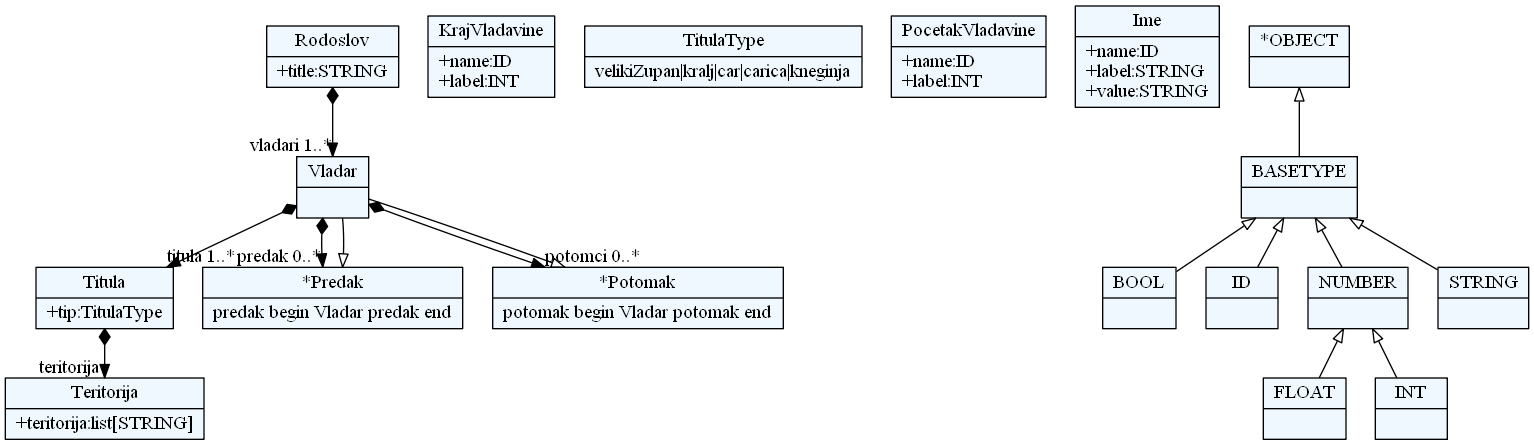
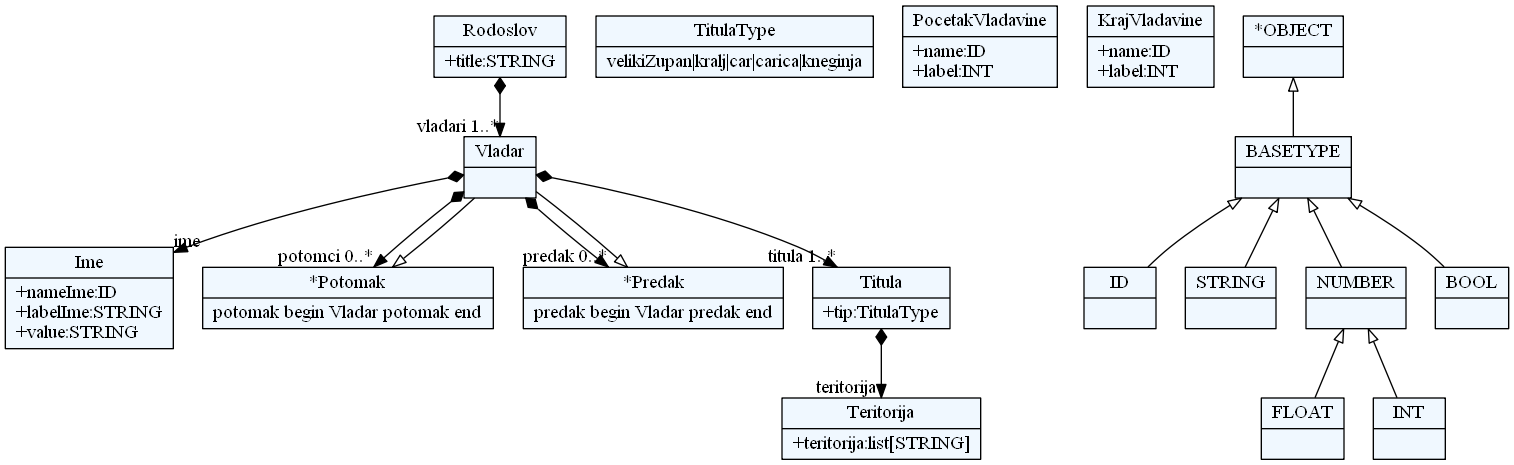
Prikazana labela uspesno. #2

diff --git a/Projekat/generation/templates/form_template.html b/Projekat/generation/templates/form_template.html
@@ -4,8 +4,8 @@
     <form action = "#">
             <legend>{{rodoslov.title}}</legend>
             {% for vladar in rodoslov.vladari %}
-                <label for = "{{vladar.name}}">{{vladar.label}}</label>
-                <input name = "{{vladar.name}}" value="{{ vladar.label }}" /><br/><br/>
+                <label for = "{{vladar.ime.nameIme}}">{{vladar.ime.labelIme}}</label>
+                <input name = "{{vladar.ime.nameIme}}" value="{{ vladar.ime.value}}" /><br/><br/>
             {% endfor %}
     </form>
 </body>

diff --git a/Projekat/output/form.html b/Projekat/output/form.html
@@ -3,8 +3,8 @@
 <body>
     <form action = "#">
             <legend>Nemanjici</legend>
-                <label for = ""></label>
-                <input name = "" value="" /><br/><br/>
+                <label for = "ime">ime:</label>
+                <input name = "ime" value="Nemanja" /><br/><br/>
     </form>
 </body>
 </html>
